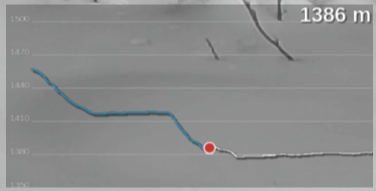
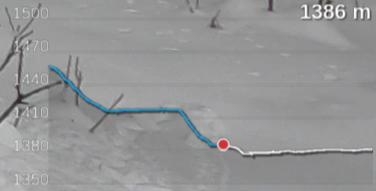
Background grandiant and larger font

diff --git a/AltitudeGraphic.c b/AltitudeGraphic.c
@@ -24,15 +24,21 @@ static int delta_h;
 
 static cairo_surface_t *background;
 
+/* Draw GPMF data
+ * -> offset : move the curve (used to draw the shadow)
+ * -> current : current position.
+ *  if set, the color will not be the same in front and in back of this position
+ *  if not set, we are drawing the shadow : THE PATH IS PRESERVED
+ */
 static void drawGPMF(cairo_t *cr, int offset, struct GPMFdata *current){
 	struct GPMFdata *p;
 	int i;
 
 	if(!current){	/* Drawing shadow */
 		cairo_set_source_rgba(cr, 0,0,0, 0.55);
-		cairo_set_line_width(cr, 3);
+		cairo_set_line_width(cr, 5);
 	} else {	/* Drawing curve */
-		cairo_set_line_width(cr, 2);
+		cairo_set_line_width(cr, 3);
 		cairo_set_source_rgb(cr, 0.11, 0.65, 0.88);	/* Set white color */
 	}
 
@@ -51,7 +57,10 @@ static void drawGPMF(cairo_t *cr, int offset, struct GPMFdata *current){
 			cairo_set_source_rgb(cr, 1,1,1);
 		}
 	}
-	cairo_stroke(cr);
+	if(current)
+		cairo_stroke(cr);
+	else
+		cairo_stroke_preserve(cr);
 }
 
 static void generateBackGround(){
@@ -72,7 +81,7 @@ static void generateBackGround(){
 	posLabel = GFX_W - extents.x_advance - 55;
 
 	cairo_select_font_face(cr, "sans", CAIRO_FONT_SLANT_NORMAL, CAIRO_FONT_WEIGHT_NORMAL);
-	cairo_set_font_size(cr, 15);
+	cairo_set_font_size(cr, 27);
 	cairo_text_extents(cr, "8888", &extents);
 	offx = extents.x_advance + 10;
 
@@ -93,12 +102,8 @@ static void generateBackGround(){
 		 * Generate image
 		 */
 
-	cairo_set_source_rgba(cr, 0,0,0, 0.25);	/* Dark background */
-	cairo_rectangle(cr, 0,0, GFX_W, GFX_H);
-	cairo_fill(cr);
-
 		/* Draw iso level lines */
-	cairo_set_source_rgba(cr, 1,1,1, 0.75);	/* Set white color */
+	cairo_set_source_rgba(cr, 1,1,1, 0.80);	/* Set white color */
 	cairo_set_line_width(cr, 1);
 
 	int i;
@@ -119,7 +124,20 @@ static void generateBackGround(){
 			/* Draw Shadow */
 	drawGPMF(cr, 3, NULL);
 
+			/* And bellow the curve */
+	cairo_pattern_t *pat = cairo_pattern_create_linear(offx,GFX_H - range_h*scale_h, offx,GFX_H);
+	cairo_pattern_add_color_stop_rgba(pat, 0, 0,0,0, 0.25);
+	cairo_pattern_add_color_stop_rgba(pat, 1, 0,0,0, 0.05);
+	cairo_set_source(cr, pat);
+
+	cairo_line_to(cr, GFX_W, GFX_H);
+	cairo_line_to(cr, offx, GFX_H);
+	cairo_line_to(cr, offx, GFX_H - (first->altitude - min_h)*scale_h);
+
+	cairo_fill(cr);;
+
 		/* Cleaning */
+	cairo_pattern_destroy(pat);
 	cairo_destroy(cr);
 }
 
